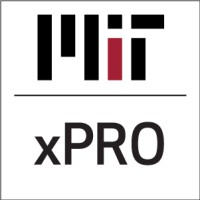
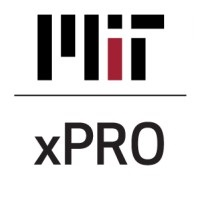
Updated MIT certificate

Changed region(s): [[0.0, 0.0, 1.0, 1.0]]

diff --git a/index.html b/index.html
@@ -179,9 +179,10 @@
                 </div>
                 <div class="col-md-4 col-lg-4">
                     <div class="campanies__logo-box shadow-sm">
-                        <img src="images/certifications/mit-xpro-course.png" alt="MIT xPro logo"
-                            title="MIT xPro: Data Engineering (Expected End: 06/07/22" class="img-fluid">
-
+                        <a target="_blank" href="https://certificates.emeritus.org/7af91ade-46b6-4443-b1cb-615a41b39e73">
+							<img src="images/certifications/mit-xpro.jpg" alt="MIT xPro logo"
+                            title="MIT xPro: Data Engineering" class="img-fluid">
+						</a> 
                     </div>
                 </div>
                 <div class="col-md-4 col-lg-4">
